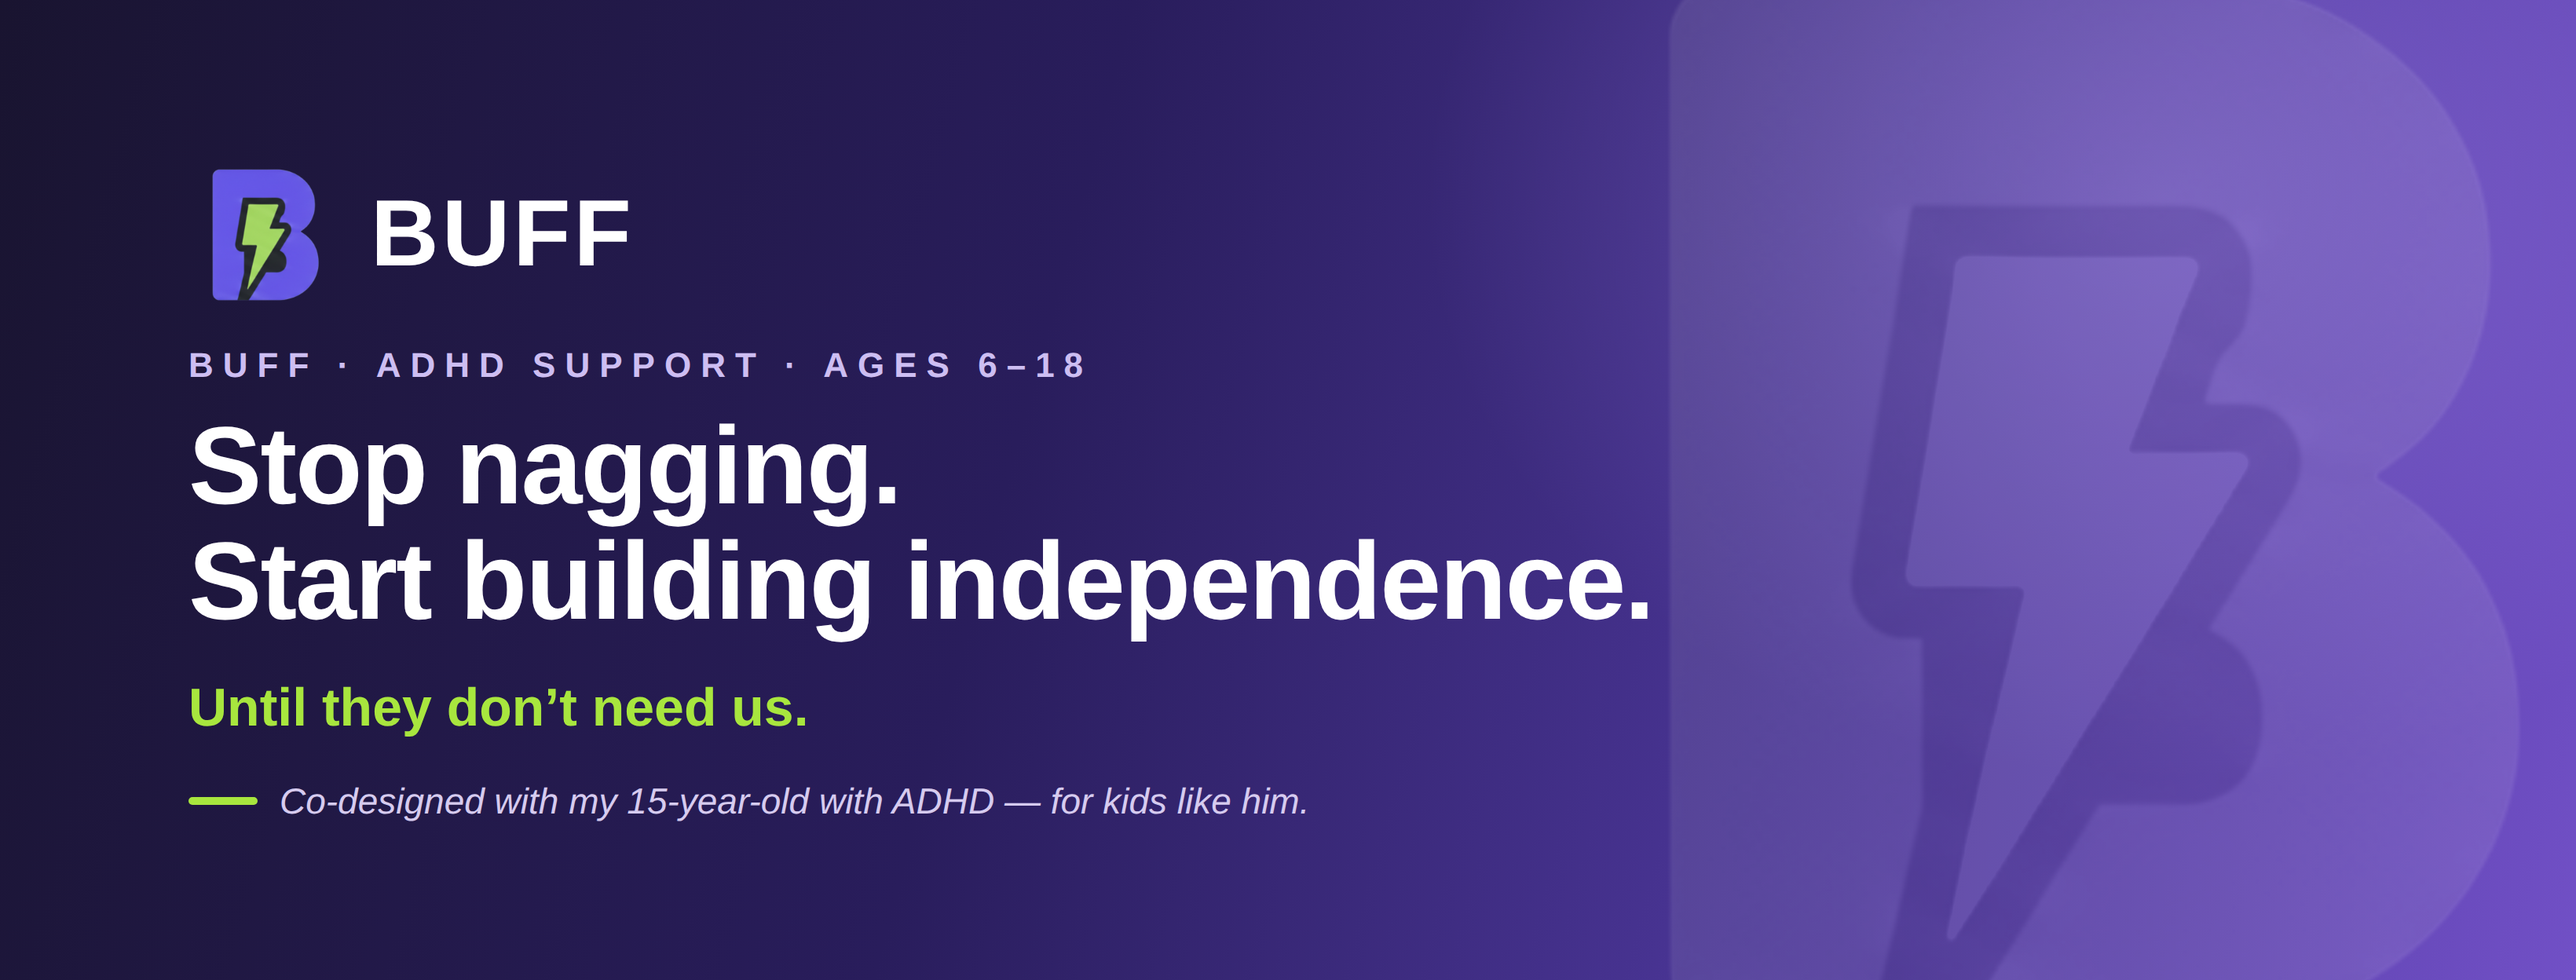
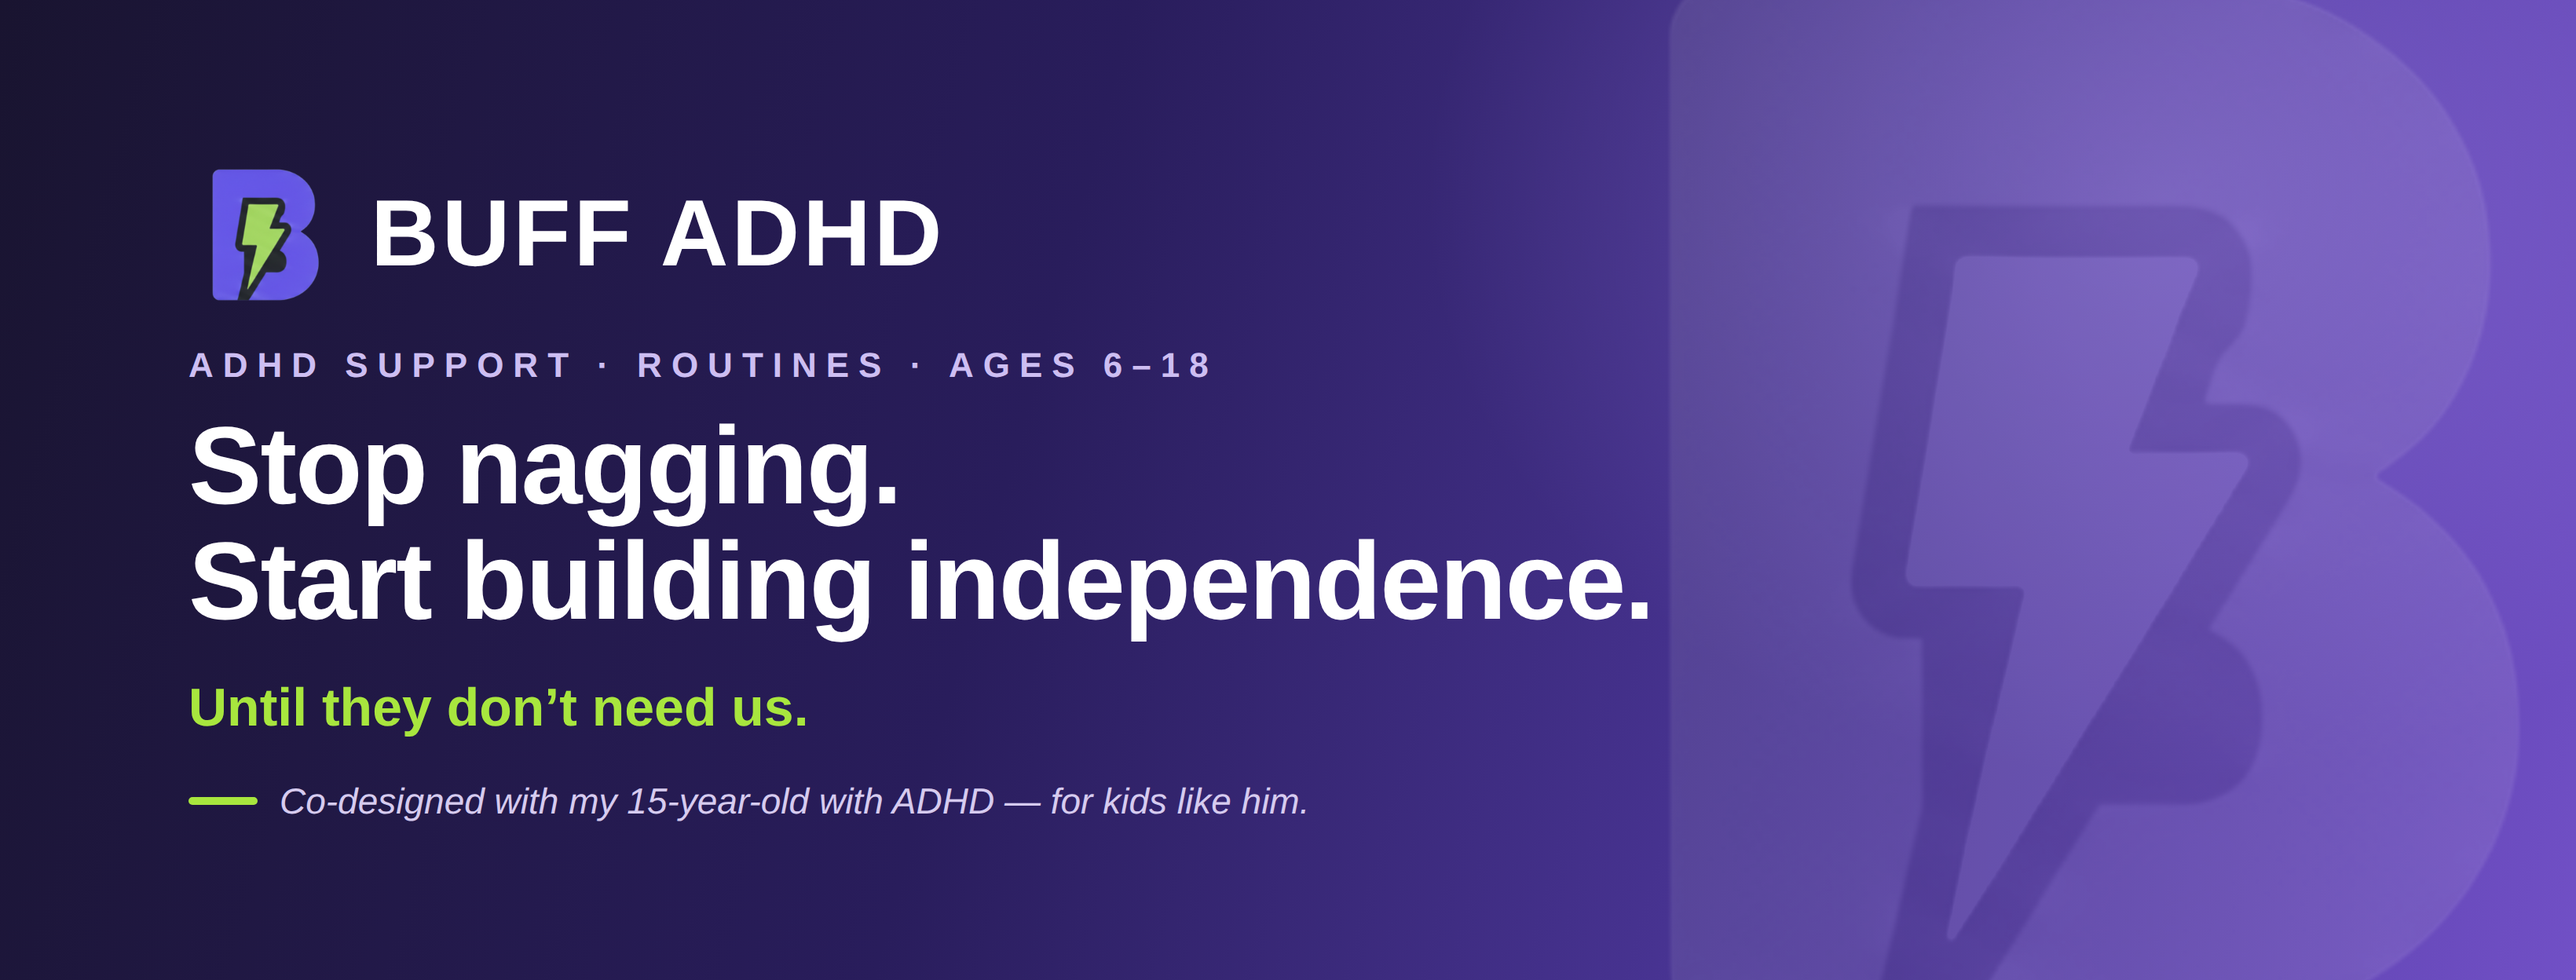
docs(marketing): adopt 'BUFF ADHD' product name in FB assets
Adi's call 2026-07-25: use 'BUFF ADHD' as the public-facing product name
because generic 'BUFF' is hard to find among many same-named apps
(discoverability). Applied to the FB cover wordmark and the pinned-post copy.
Kicker de-duplicated now that the wordmark carries ADHD.

NOT changed, deliberately: the in-app 'BUFFs' currency term (58 code
occurrences, renaming would break the brand vocabulary) and
android.package com.buffapp.mobile (immutable after Play Store publish).

Changed region(s): [[0.0622, 0.3438, 0.4665, 0.4062], [0.2488, 0.1875, 0.3732, 0.2812]]

diff --git a/docs/founder-content/fb-pinned-post-001-founder-story.md b/docs/founder-content/fb-pinned-post-001-founder-story.md
@@ -38,7 +38,7 @@ grows when you complete tasks — he looked at it for 30 seconds and asked:
 
 He was 12. He was right.
 
-So we built BUFF differently — together. He's 15 now, and he co-designed
+So we built BUFF ADHD differently — together. He's 15 now, and he co-designed
 the teen side himself.
 
 🟣 Real-life rewards your kid actually wants — not virtual coins
@@ -47,7 +47,7 @@ the teen side himself.
 🟣 Built for ages 6–18 — and built to be outgrown. If your kid stops
    needing it, that's the success.
 
-BUFF launches soon on Google Play. Until then I'm opening 100 Founding
+BUFF ADHD launches soon on Google Play. Until then I'm opening 100 Founding
 Member spots — lifetime access for families who want in early and help
 shape it.
 
@@ -74,7 +74,7 @@ swap ADHD-morning war stories — that's welcome too.
 
 הוא היה בן 12. והוא צדק.
 
-אז בנינו את BUFF אחרת — ביחד. היום הוא בן 15, והוא עיצב בעצמו את צד
+אז בנינו את BUFF ADHD אחרת — ביחד. היום הוא בן 15, והוא עיצב בעצמו את צד
 המתבגרים.
 
 🟣 פרסים אמיתיים מהחיים שהילד באמת רוצה — לא מטבעות וירטואליים
@@ -83,7 +83,7 @@ swap ADHD-morning war stories — that's welcome too.
 🟣 בנויה לגילאי 6–18 — ובנויה כדי שיפסיקו להצטרך אותה. אם הילד כבר לא
    צריך אותה — ניצחנו.
 
-BUFF עולה בקרוב ל-Google Play. עד אז אני פותחת 100 מקומות Founding
+BUFF ADHD עולה בקרוב ל-Google Play. עד אז אני פותחת 100 מקומות Founding
 Members — גישה לכל החיים למשפחות שנכנסות מוקדם ומעצבות אותה איתי.
 
 סקרנים? תגיבו או שלחו לי הודעה ואשלח קישור. וגם אם בא לכם רק להחליף
@@ -126,7 +126,7 @@ Every app we'd tried lasted about six weeks. Not because he failed them —
 because they were built to keep him hooked, not to help him need them less.
 
 He's 15 now. We rebuilt the whole thing together, and he designed the teen
-side himself. It's called BUFF, and it's built for one outcome that sounds
+side himself. It's called BUFF ADHD, and it's built for one outcome that sounds
 insane for an app: that your kid stops needing it.
 
 But here's the real reason I'm posting.
@@ -163,7 +163,7 @@ know if it's just us.
 הן בנויות כדי להחזיק אותו בפנים, לא כדי שיצטרך אותן פחות.
 
 היום הוא בן 15. בנינו הכל מחדש ביחד, והוא עיצב בעצמו את צד המתבגרים.
-קוראים לזה BUFF, והוא בנוי לתוצאה אחת שנשמעת מטורפת לאפליקציה: שהילד
+קוראים לזה BUFF ADHD, והוא בנוי לתוצאה אחת שנשמעת מטורפת לאפליקציה: שהילד
 שלכם יפסיק להצטרך אותה.
 
 אבל זאת הסיבה האמיתית שאני מפרסמת.

diff --git a/docs/marketing-assets/README.md b/docs/marketing-assets/README.md
@@ -31,4 +31,4 @@ Examples:
 | File | Purpose | Used in |
 |---|---|---|
 | `philosophy-hero-2026-05-15.jpg` (pending — Adi to save from chat) | Screenshot of `/philosophy` 3-Principles hero | LinkedIn post 2026-05-15 (planned) |
-| `fb-cover-founder-2026-07-24.png` | Facebook cover photo — brand violet **gradient** (matching the official Play Store feature graphic) + real logo. Hero "Stop nagging. Start building independence." · kicker "BUFF · ADHD support · Ages 6–18" · mission tagline "Until they don't need us." moved to subhead · credibility line "Co-designed with my 15-year-old with ADHD — for kids like him." 3280×1248 (2× of 1640×624 FB upload size). Brand-exact (BRAND §7.2 tokens, spaceship-test compliant). Copy refined 2026-07-24 vs a second-opinion critique (hero was mission tagline; moved down for clarity-led hero). | Adi's FB profile refurbish — [MARKETING_BACKLOG Track H / H-1](../BUFF_MARKETING_BACKLOG.md#66-track-h--group-reputation--profile-as-landing-page-brief) |
+| `fb-cover-founder-2026-07-24.png` | Facebook cover photo — brand violet **gradient** (matching the official Play Store feature graphic) + real logo. Hero "Stop nagging. Start building independence." · wordmark "BUFF ADHD" · kicker "ADHD support · Routines · Ages 6–18" · mission tagline "Until they don't need us." moved to subhead · credibility line "Co-designed with my 15-year-old with ADHD — for kids like him." 3280×1248 (2× of 1640×624 FB upload size). Brand-exact (BRAND §7.2 tokens, spaceship-test compliant). Copy refined 2026-07-24 vs a second-opinion critique (hero was mission tagline; moved down for clarity-led hero). | Adi's FB profile refurbish — [MARKETING_BACKLOG Track H / H-1](../BUFF_MARKETING_BACKLOG.md#66-track-h--group-reputation--profile-as-landing-page-brief) |
